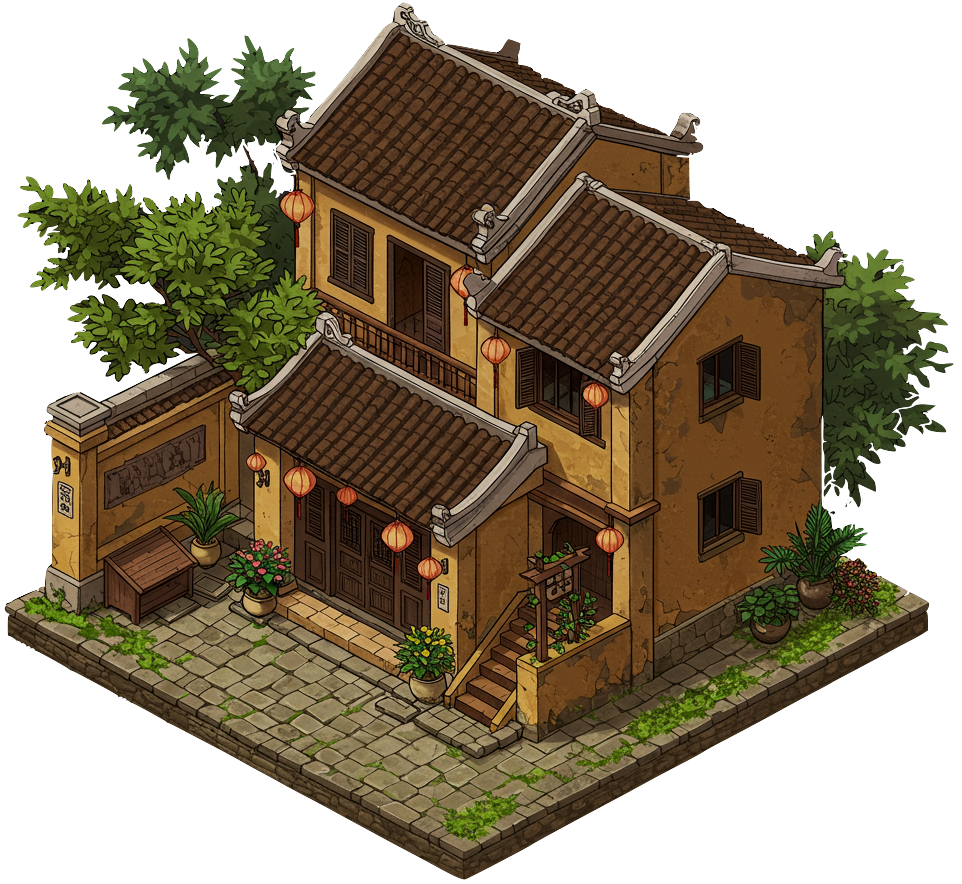
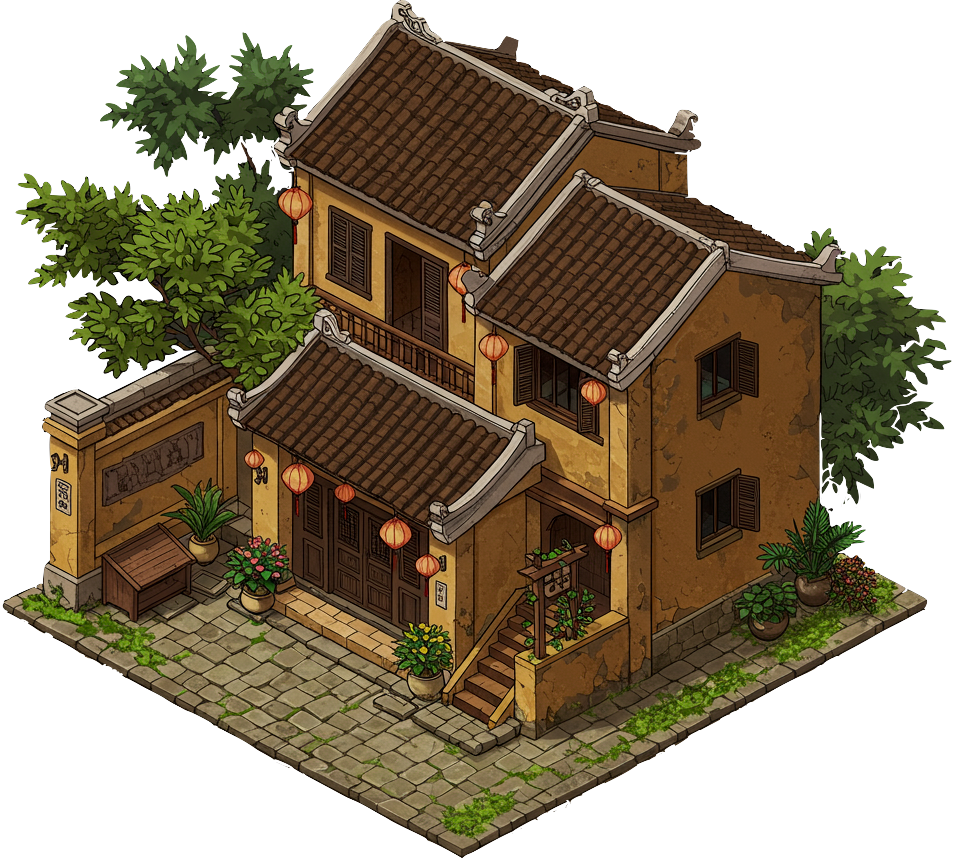
Building sprites tidy up and size changes.
+ New building sprite sizes.
+ New house level 4.
+ Adjust farm production rates.

diff --git a/game/src/game/building/producer.rs b/game/src/game/building/producer.rs
@@ -58,6 +58,7 @@ pub struct ProducerConfig {
     pub max_workers: u32,
 
     pub production_output_frequency_secs: Seconds,
+    pub production_output_amount: u32, // How many units produced per cycle.
 
     // Producer output: A raw material or a consumer good.
     pub production_output: ResourceKind,
@@ -88,6 +89,7 @@ impl Default for ProducerConfig {
                min_workers: 2,
                max_workers: 4,
                production_output_frequency_secs: 20.0,
+               production_output_amount: 1,
                production_output: ResourceKind::Rice,
                production_capacity: 5,
                resources_required: ResourceKinds::none(),
@@ -343,7 +345,7 @@ impl ProducerBuilding {
     fn production_update(&mut self) {
         // Production halts if the local stock is full.
         if !self.production_output_stock.is_full() {
-            let mut produce_one_item = true;
+            let mut produce_items = true;
 
             // If we have raw material requirements, first check if they are available in
             // stock.
@@ -353,14 +355,15 @@ impl ProducerBuilding {
                     self.production_input_stock.consume_resources(&mut self.debug);
                 } else {
                     // We are missing one or more raw materials, halt production.
-                    produce_one_item = false;
+                    produce_items = false;
                 }
             }
 
-            // Produce one item and store it locally:
-            if produce_one_item {
-                self.production_output_stock.store_resources(1);
-                self.debug.log_resources_gained(self.production_output_stock.resource_kind(), 1);
+            // Produce items and store locally:
+            if produce_items {
+                let count = self.config.unwrap().production_output_amount;
+                self.production_output_stock.store_resources(count);
+                self.debug.log_resources_gained(self.production_output_stock.resource_kind(), count);
             }
         }
     }
@@ -585,8 +588,7 @@ impl ProducerOutputLocalStock {
 
     #[inline]
     fn store_resources(&mut self, count: u32) {
-        debug_assert!(self.item.count + count <= self.capacity);
-        self.item.count += count;
+        self.item.count = (self.item.count + count).min(self.capacity);
     }
 }
 

diff --git a/game/src/game/building/house.rs b/game/src/game/building/house.rs
@@ -859,23 +859,24 @@ impl HouseBuilding {
 
 #[repr(u8)]
 #[derive(Copy,
-           Clone,
-           Display,
-           PartialOrd,
-           Ord,
-           PartialEq,
-           Eq,
-           IntoPrimitive,
-           TryFromPrimitive,
-           EnumCount,
-           EnumIter,
-           Serialize,
-           Deserialize)]
+         Clone,
+         Display,
+         PartialOrd,
+         Ord,
+         PartialEq,
+         Eq,
+         IntoPrimitive,
+         TryFromPrimitive,
+         EnumCount,
+         EnumIter,
+         Serialize,
+         Deserialize)]
 pub enum HouseLevel {
     Level0,
     Level1,
     Level2,
     Level3,
+    Level4,
 }
 
 impl HouseLevel {
